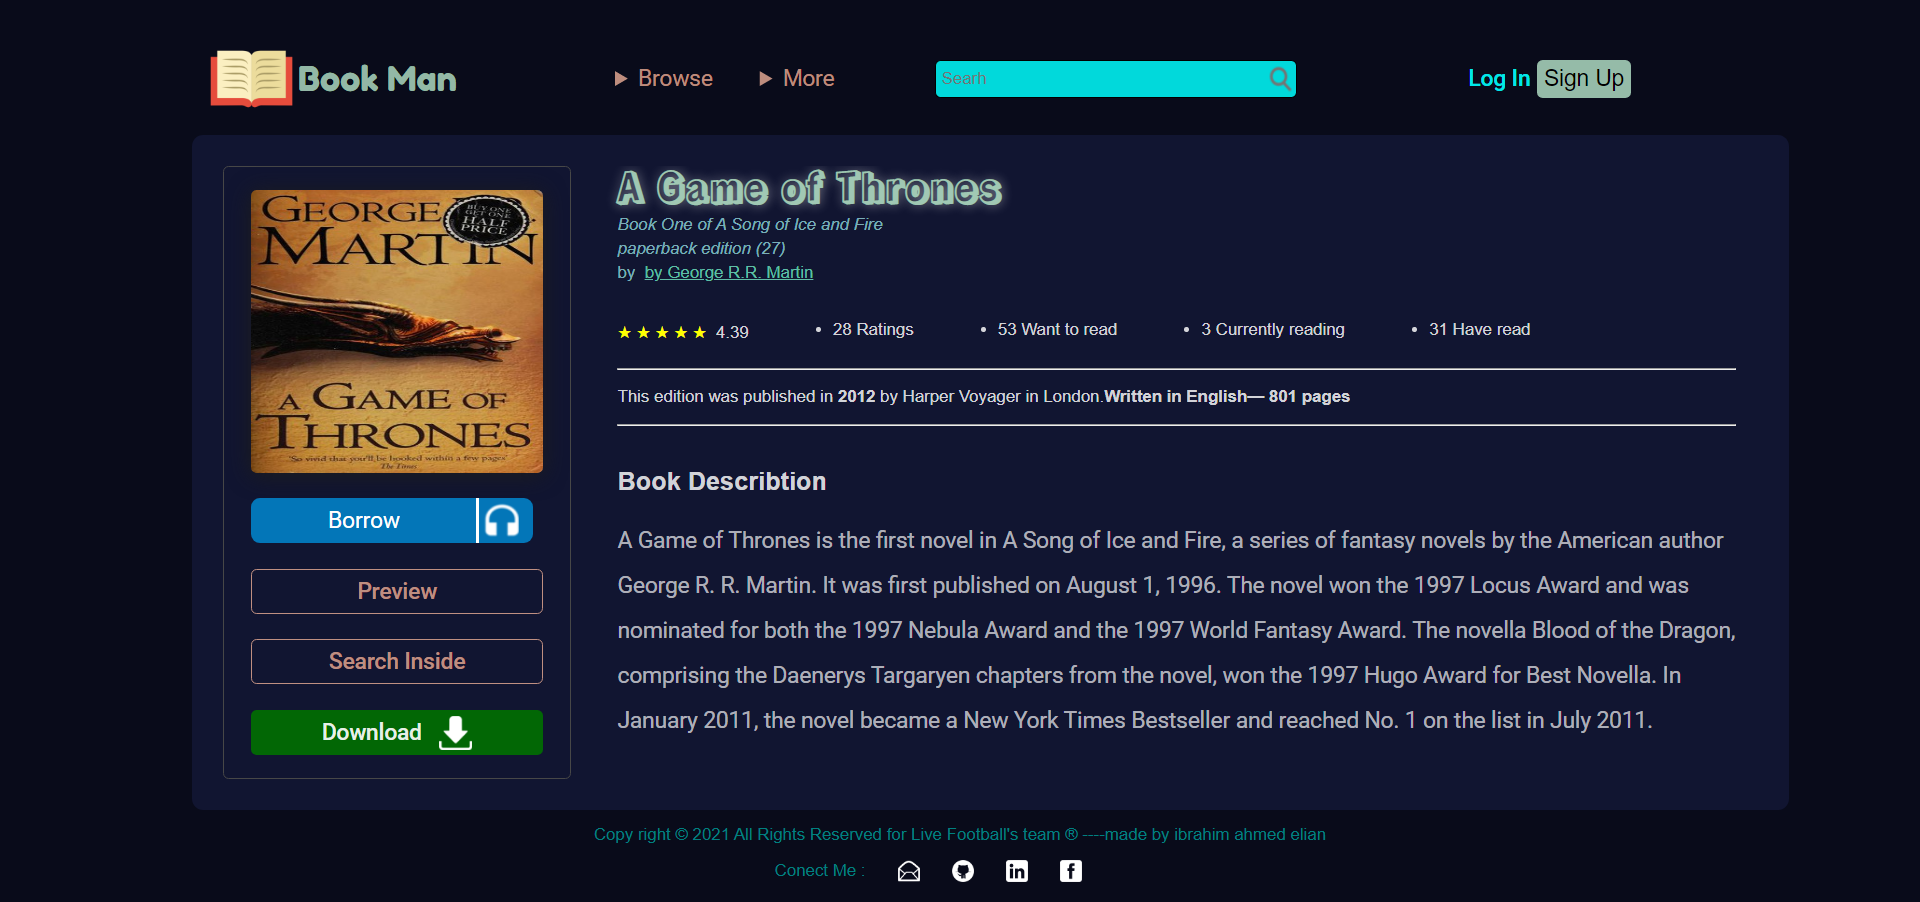
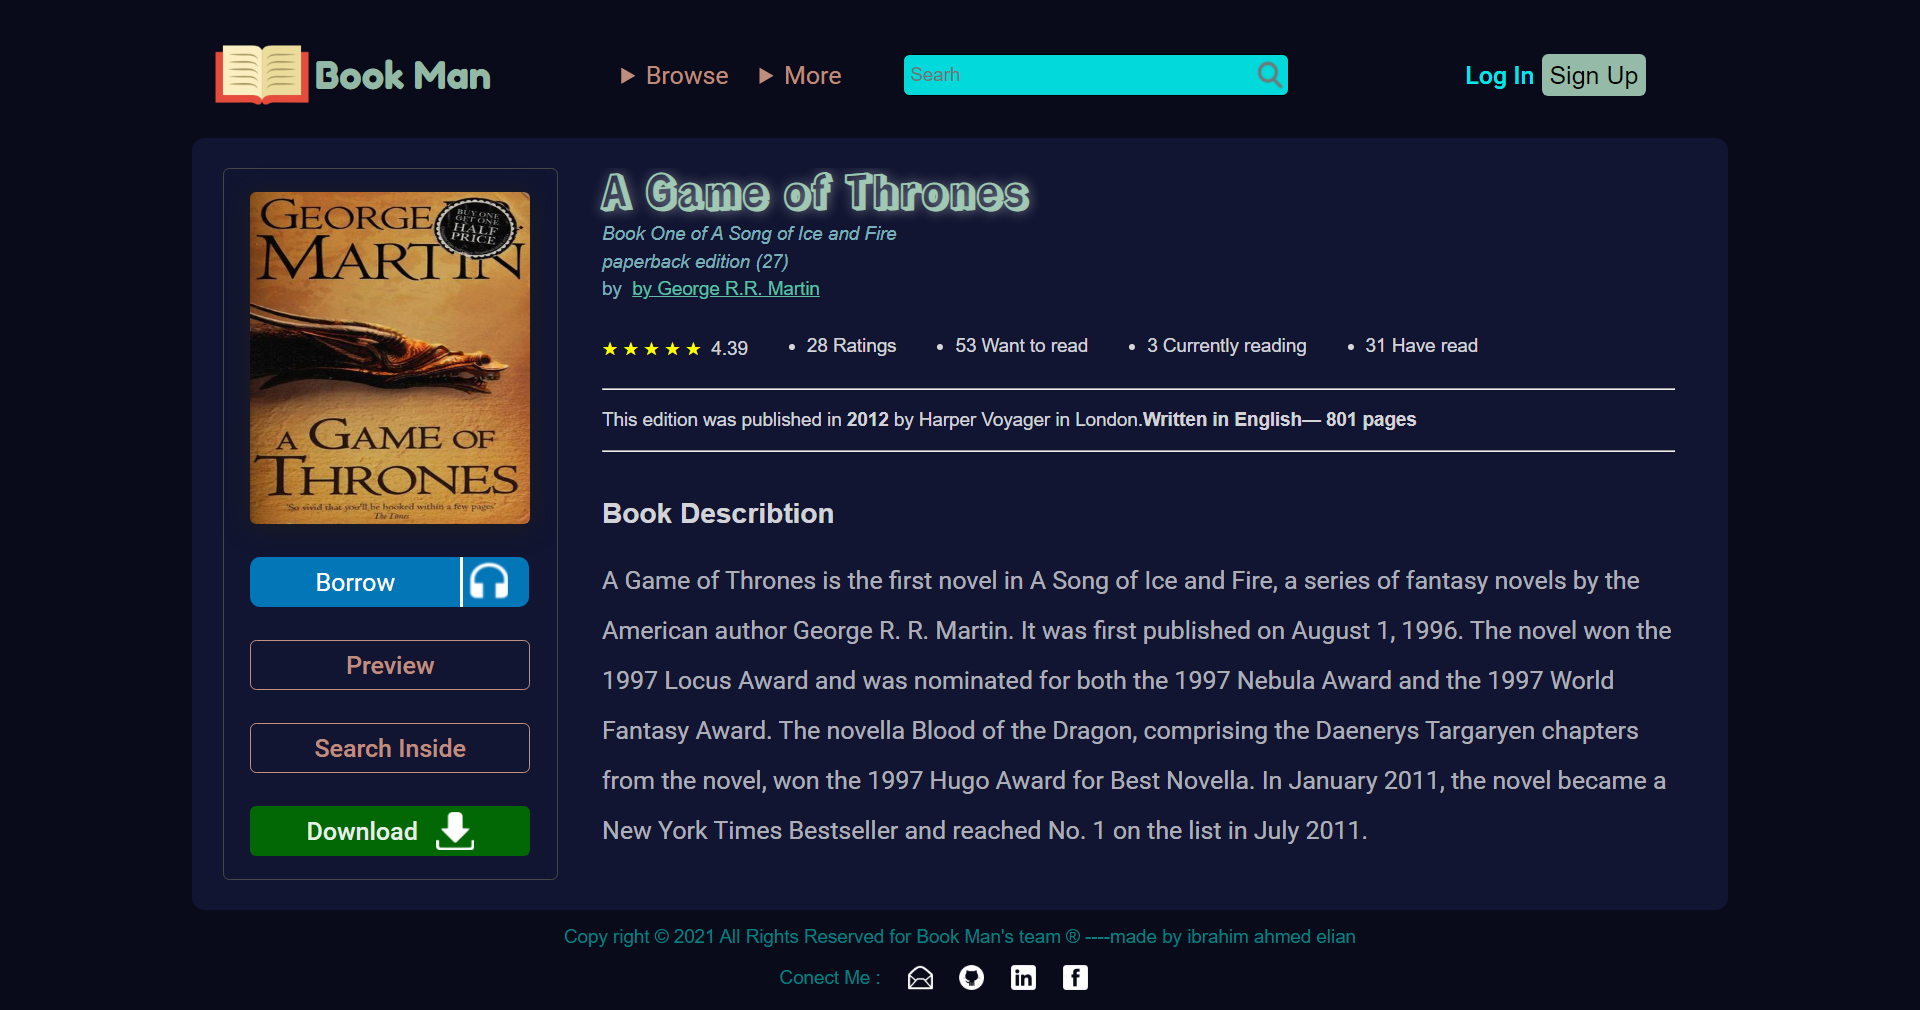
fixed some layout issues

diff --git a/CSS/style.css b/CSS/style.css
@@ -2,26 +2,28 @@
 body{
     background-color: 	hsl(233, 47%, 7%);
     display: grid;
-    grid-template-rows: 100px 600px 60px;
+    grid-template-rows: 100px auto 60px;
     grid-template-areas: "header" "body" "footer";
     width: 80%;
-    margin: 20px 10% 20px 10%;
+    height: auto;
+    margin: 10px 10% 20px 10%;
     font-size: 15px;
     font-family: sans-serif;
 }
 header{
     grid-area: "header";
-    width: 100%;
+    width: auto;
     background-color: inherit;
     display: flex;
     flex-direction: row;
 
 }
 header #logo{
-    width: 20%;
+    width: 25%;
     display: flex;
     flex-direction: row-reverse;
-    margin: 10px 5px 10px 5px;
+    padding: 1%;
+    margin: 0;
     justify-content: center;
     align-items: center;
 }
@@ -32,6 +34,7 @@ header #logo{
     color: rgba(167, 209, 186, 0.89);
     line-height: 0.95;
     cursor: pointer;
+    width: 69%;
 }
 .logo-name:hover{
     color: rgba(110, 139, 123, 0.89);
@@ -41,22 +44,24 @@ header #logo{
     transition: color 1s ease-out;
 }
 .logo-img{
-    width: 35%;
+    width: 30%;
     height: 100%;
     cursor: pointer;
 }
 .logo-img:hover{
-    width: 37%;
+    width: 33%;
     height: 102%;
 }
 .nav-componant{
     display: flex;
     flex-direction: row;
     width: 20%;
-    justify-content: space-around;
+    justify-content: space-evenly;
     align-items: center;
     list-style: none;
-    margin-left: 5%;
+    margin-left: 1%;
+    margin-right: 1%;
+    padding: 0%;
 }
 details{
     font-size: 20px;
@@ -69,7 +74,7 @@ details{
     width: 30%;
     flex-direction: row;
     align-items: center;
-    margin-left: 5%;
+    margin-left: 1%;
 }
 #search-a{
     height: 30px;
@@ -107,7 +112,6 @@ details{
     align-items: center;
     justify-content: center;
     list-style: none;
-    margin-right: 1%;
 }
 #log-in{
     background-color: inherit;
@@ -137,7 +141,7 @@ details{
 }
 .container{
     grid-area: "body";
-    width: 100%;
+    width: auto;
     background-color: hsl(232, 48%, 13%);
     border-radius: 10px;
     display: flex;
@@ -174,7 +178,7 @@ details{
     overflow: hidden;
 }
 .borrow{
-    width: 200px;
+    width: 75%;
     background-color: #0376b8;
     border: none;
     border-bottom-left-radius: 8px;
@@ -190,7 +194,7 @@ details{
     background-color: #003757;
 }
 .lsn{
-    width: 50px;
+    width: 55px;
     background-color: #0376b8;
     border: none;
     border-left: 3px solid white;
@@ -209,7 +213,7 @@ details{
     padding-left: 0;
 }
 .head-set{
-    margin-top: 3px;
+    margin-top: 2.5px;
     width: 35px;
     height: 35px;
     background-image: url(../images/head.png);
@@ -225,7 +229,7 @@ details{
 }
 .lsn:hover{
     background-color: #003757;
-    width: 170px;
+    width: 90%;
 }
 .preview-search-button{
     background-color: inherit;
@@ -307,7 +311,7 @@ details{
 }
 .discribe{
     margin-top: 10px;
-    height: 80%;
+    height: auto;
 }
 .discribe p{
     font-size: 20px;
@@ -354,8 +358,9 @@ footer .conect-me ul{
 
 @media only screen and (max-device-width: 400px){
     body{
-        grid-template-rows: 50px 910px 100px;
+        grid-template-rows: 50px auto 100px;
         width: 90%;
+        height: auto;
         margin: 10px 5% 10px 5%;
         font-size: 10px;
     }
@@ -384,19 +389,19 @@ footer .conect-me ul{
         margin-left: 1%;
     }
     #search-a{
-        height: 20px;
+        height: 15px;
         width: 80%;
         font-size: 7.5px;
         border: none;
         padding-left: 2px;
     }
     #search-b{
-        height: 24px;
+        height: 18.5px;
         width: 25px;
         background-color: rgba(0, 255, 255, 0.842);
         background-image: url(../images/search-icon-mob.png);
-        background-repeat: no-repeat;
         background-size: cover;
+        background-repeat: no-repeat;
     }
     .sign{
         width: 30%;
@@ -412,16 +417,16 @@ footer .conect-me ul{
         height: 17px;
     }
     .container{
-        width: 95%;
+        width: auto;
         background-color: hsl(232, 48%, 13%);
         border-radius: 10px;
         padding: 3%;
         display: inline;
     }
     .read-option{
-        margin-left: 25%;
-        width: 150px;
-        height: 250px;
+        margin-left: 16%;
+        width: 200px;
+        height: 300px;
         padding: 1.5%;
         flex-direction: column;
         justify-content: space-between;
@@ -434,28 +439,29 @@ footer .conect-me ul{
         width: 97%;
     }
     .borrow{
-        width: 115px;
+        width: 90%;
         border-bottom-left-radius: 4px;
         border-top-left-radius: 4px;
-        font-size: 10px;
-        height: 20px;
+        font-size: 13px;
+        height: 25px;
     }
     .lsn{
-        width: 28px;
+        width: 32px;
         border-bottom-right-radius: 4px;
         border-top-right-radius: 4px;
         font-size: 7px;
-        height: 20px;
+        height: 25px;
         padding-right: 2px;
     }
     .head-set{
-        margin-top: 1px;
-        width: 17.5px;
-        height: 17.5px;
+        margin-top: 2.5px;
+        width: 19px;
+        height: 19px;
     }
     .lsn .text{
         margin-top: 3.5px;
         margin-right: 2.5px;
+        font-size: 13px;
     }
     .lsn:hover{
         background-color: #003757;
@@ -463,8 +469,8 @@ footer .conect-me ul{
         padding-right: 4px;
     }
     .preview-search-button{
-        height: 20px;
-        font-size: 10px;
+        height: 25px;
+        font-size: 13px;
     }
     #down-putton:hover{
         background-color: rgba(0, 77, 0, 0.904);
@@ -478,7 +484,7 @@ footer .conect-me ul{
         display:inline;
     }
     .content .title h1{
-        font-size: 25px;
+        font-size: 27px;
     }
     .content .title{
         width: 100%;
@@ -503,7 +509,7 @@ footer .conect-me ul{
     .discribe{
         width: 100%;
         margin-top: 10px;
-        height: 80%;
+        height: auto;
     }
     .discribe p{
         font-size: 15px;
